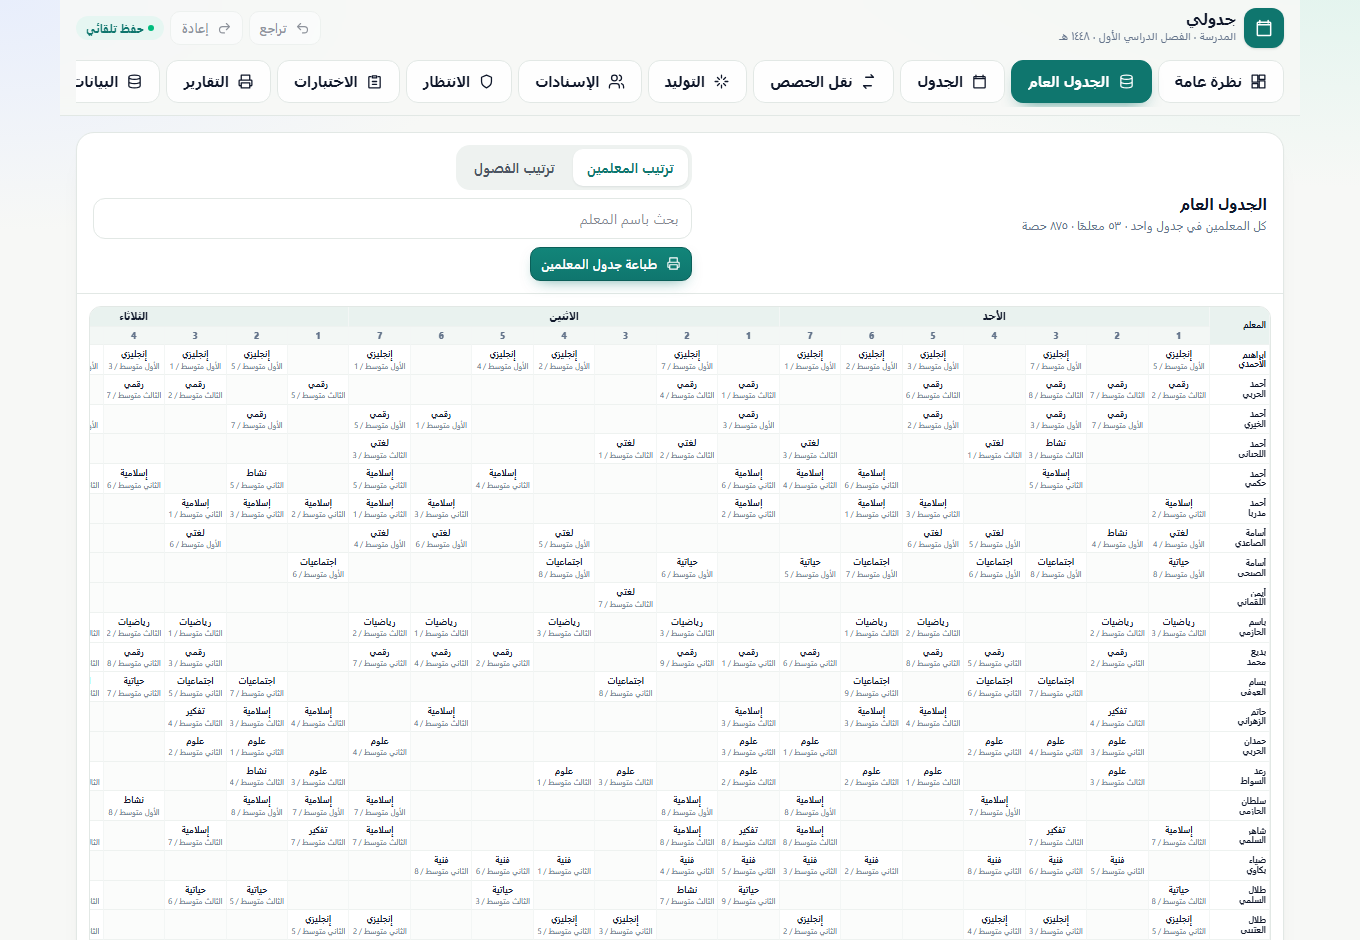
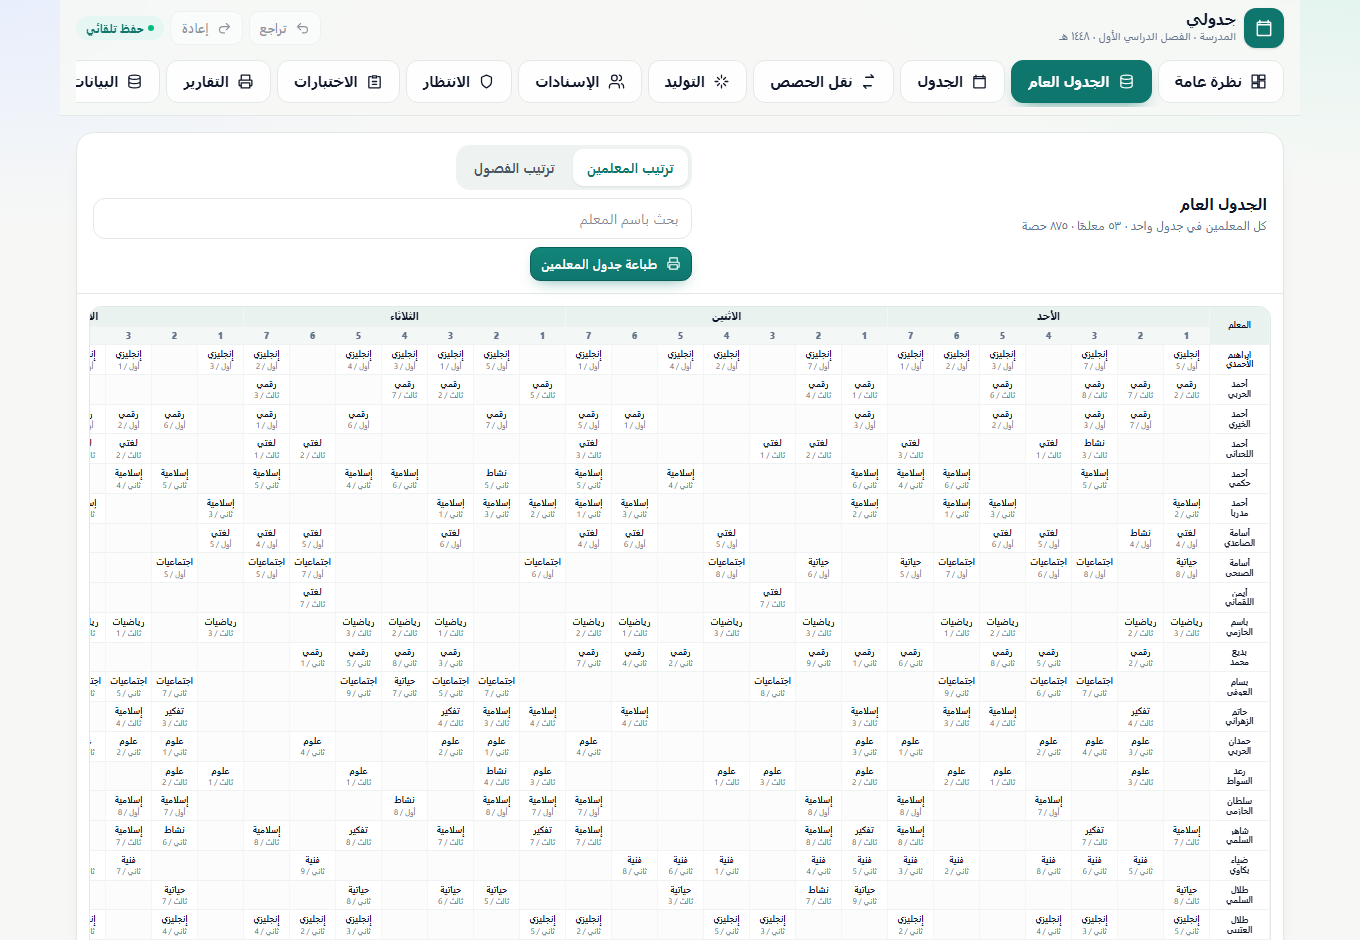
الجدول العام: حذف «متوسط» من اسم الفصل (ثاني / 6) وتوسيط عمود الأسماء

diff --git a/src/components/MasterTable.tsx b/src/components/MasterTable.tsx
@@ -7,6 +7,7 @@ export type MasterMode = 'teacher' | 'class';
 interface Cell {
   subject: string;
   meta: string;
+  metaFull?: string;
 }
 
 interface Row {
@@ -47,10 +48,16 @@ export function masterRows(data: SchoolData, mode: MasterMode, query = ''): Row[
     const row = byId.get(owner);
     if (!row) continue;
     const subject = subjectById.get(assignment.subjectId) ?? '—';
-    const meta = mode === 'teacher'
-      ? classById.get(assignment.classId) ?? ''
-      : teacherById.get(lessonTeacherId(data, lesson)) ?? '';
-    row.cells.set(`${lesson.day}:${lesson.period}`, { subject, meta });
+    const classFull = classById.get(assignment.classId) ?? '';
+    const meta =
+      mode === 'teacher'
+        ? shortStageName(classFull)
+        : teacherById.get(lessonTeacherId(data, lesson)) ?? '';
+    row.cells.set(`${lesson.day}:${lesson.period}`, {
+      subject,
+      meta,
+      metaFull: mode === 'teacher' ? classFull : undefined,
+    });
   }
   return rows;
 }
@@ -78,6 +85,15 @@ export function shortSubjectName(name: string): string {
     .replace(/^(الدراسات|اللغة|التربية|المهارات)\s+/, '')
     .replace(/\s+الخالدة$/, '')
     .trim();
+}
+
+/** اسم المرحلة والفصل بلا «متوسط»: «الثاني متوسط / 6» ← «ثاني / 6». */
+export function shortStageName(name: string): string {
+  const grade = gradeOf(name);
+  const number = name.match(/(\d+)\s*$/)?.[1];
+  const label = grade === 1 ? 'أول' : grade === 2 ? 'ثاني' : grade === 3 ? 'ثالث' : '';
+  if (!number || !label) return name.replace(/متوسط/g, '').replace(/\s+/g, ' ').trim();
+  return `${label} / ${number}`;
 }
 
 /** اسم الفصل المختصر: «الثالث متوسط / 1» ← «1/3» (رقم الفصل / رقم الصف). */
@@ -156,7 +172,9 @@ export function MasterTable({
                           <span className="master-subject" title={cell.subject}>
                             {shortSubjectName(cell.subject)}
                           </span>
-                          <span className="master-meta">{cell.meta}</span>
+                          <span className="master-meta" title={cell.metaFull ?? cell.meta}>
+                            {cell.meta}
+                          </span>
                         </>
                       ) : (
                         ''

diff --git a/tests/master.test.ts b/tests/master.test.ts
@@ -2,7 +2,7 @@ import { describe, expect, it } from 'vitest';
 import raw from '../src/data/school.json';
 import type { SchoolData } from '../src/types';
 import { lessonTeacherId, normalizeData } from '../src/lib/model';
-import { masterRows, shortClassName, shortSubjectName, teacherNameLines } from '../src/components/MasterTable';
+import { masterRows, shortClassName, shortStageName, shortSubjectName, teacherNameLines } from '../src/components/MasterTable';
 
 const data = normalizeData(raw as unknown as SchoolData);
 
@@ -39,6 +39,12 @@ describe('الجدول العام', () => {
     expect(shortClassName('الأول متوسط / 1')).toBe('1/1');
     expect(shortClassName('الثالث متوسط / 1')).toBe('1/3');
     expect(shortClassName('الثاني متوسط / 8')).toBe('8/2');
+  });
+
+  it('يحذف كلمة متوسط من مرحلة الفصل', () => {
+    expect(shortStageName('الأول متوسط / 6')).toBe('أول / 6');
+    expect(shortStageName('الثاني متوسط / 1')).toBe('ثاني / 1');
+    expect(shortStageName('الثالث متوسط / 3')).toBe('ثالث / 3');
   });
 
   it('يقسم اسم المعلم إلى سطرين', () => {

diff --git a/src/styles.css b/src/styles.css
@@ -94,7 +94,7 @@ body {
   right: 0;
   z-index: 2;
   background: #fff;
-  text-align: right;
+  text-align: center;
   font-weight: 700;
   font-size: 9px;
   line-height: 1.12;
@@ -739,6 +739,7 @@ body {
     font-size: 11px;
   }
 }
+
 
 
 
